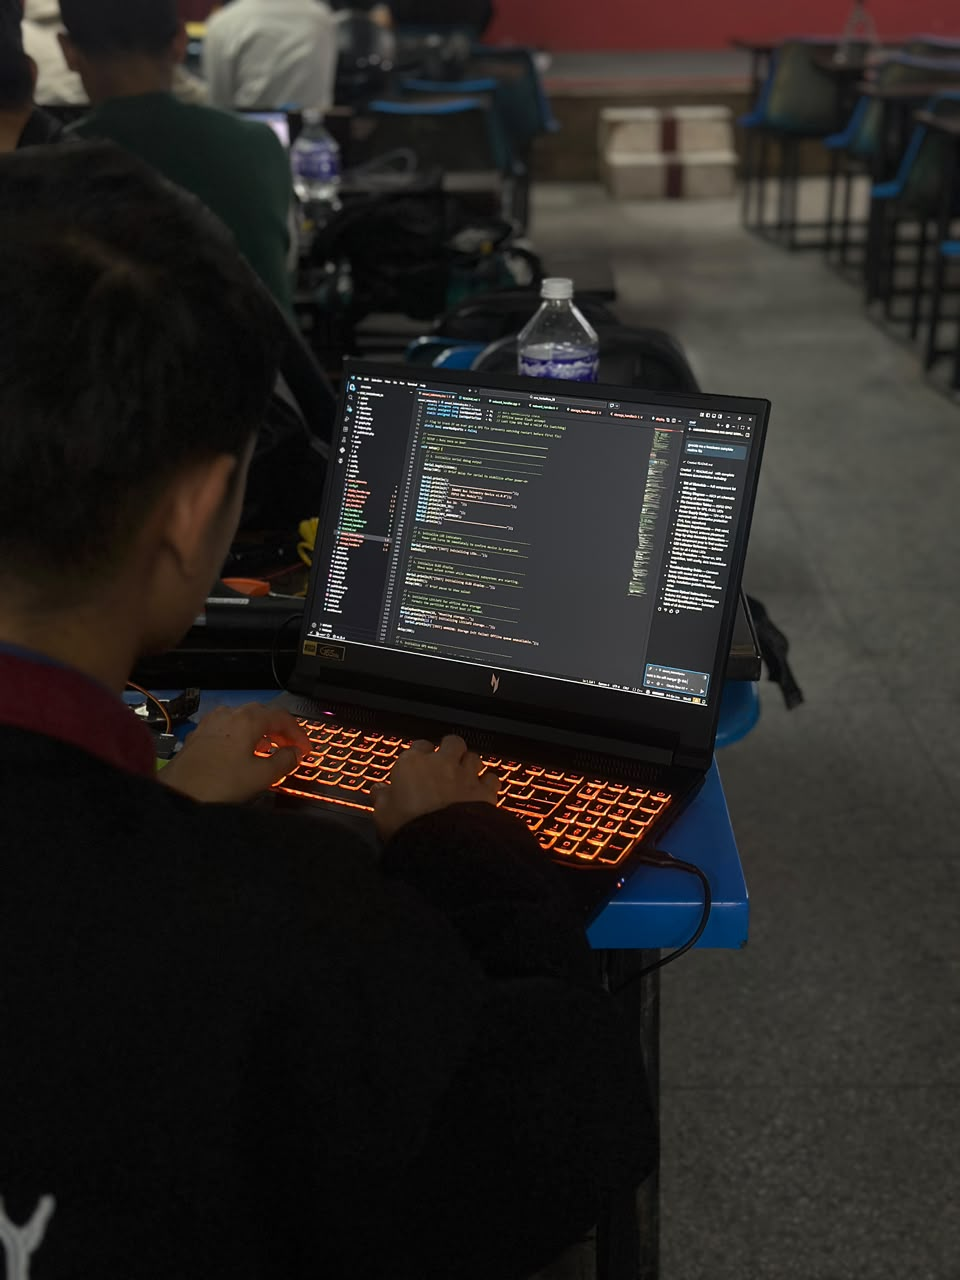
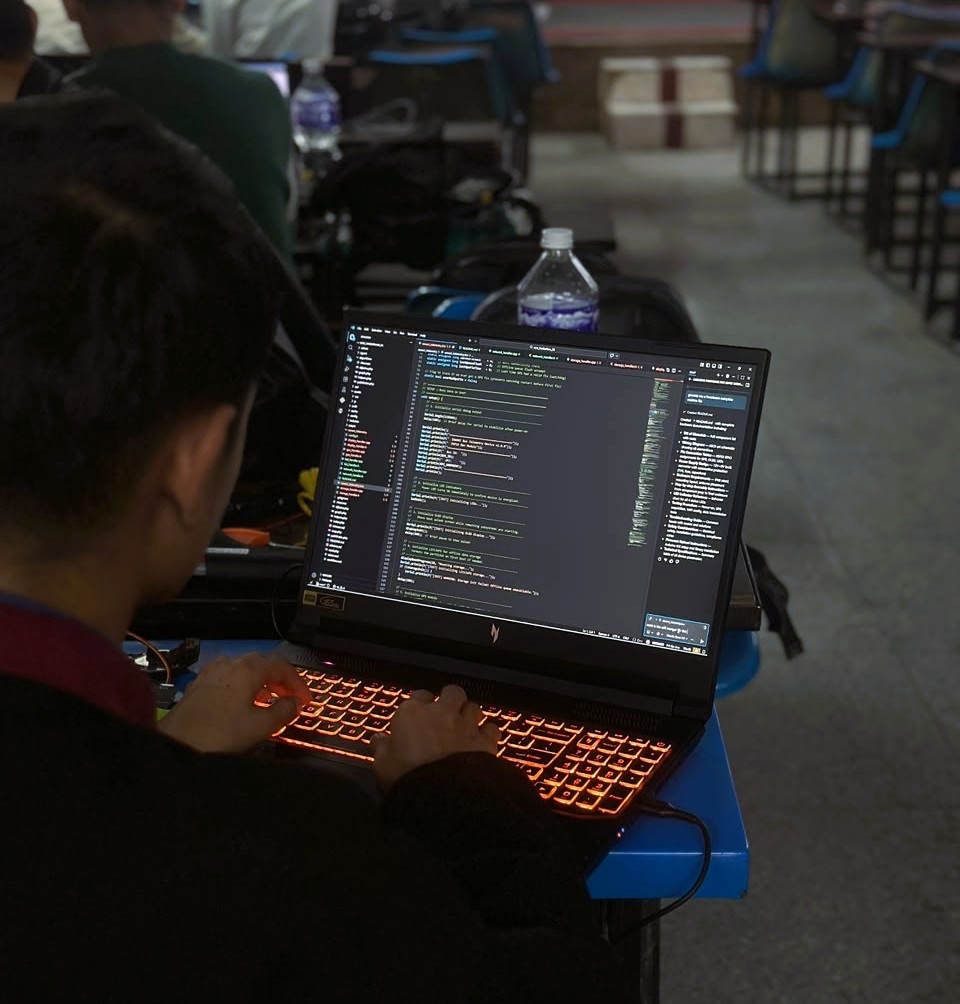
feat: add new hero slider slides for STEM workshops and global competitions

diff --git a/index.html b/index.html
@@ -246,6 +246,68 @@
           </div>
         </div>
 
+        <!-- Slide 4 -->
+        <div class="hero-slide" data-slide="3" data-stat-label="STEM Workshops Conducted" data-stat-val="60+">
+          <div class="hero-bg">
+            <img
+              src="assets/IMG_2016.JPG (1).jpeg"
+              alt="RoboYuwa hands-on robotics workshops and STEM mentorship"
+              loading="lazy"
+              decoding="async"
+            />
+            <div class="overlay"></div>
+          </div>
+          <div class="hero-container">
+            <div class="hero-content">
+              <span class="hero-eyebrow font-serif-italic">Fostering Collaboration</span>
+              <h1 class="hero-title font-serif"><span class="title-line">Hands-On STEM</span><br /><span class="title-line">&amp; Robotics Labs</span></h1>
+              <p class="hero-desc">
+                Cultivating collaborative engineering environments where students design, assemble, and test real robotic mechanisms.
+              </p>
+              <div class="hero-actions">
+                <a href="programs.html" class="btn btn-hero-pill">Join Our Labs</a>
+                <button class="hero-video-btn" aria-label="Watch showcase video">
+                  <span class="play-icon-circle">
+                    <i class="fa-solid fa-play"></i>
+                  </span>
+                  <span class="video-btn-text">Watch The Video</span>
+                </button>
+              </div>
+            </div>
+          </div>
+        </div>
+
+        <!-- Slide 5 -->
+        <div class="hero-slide" data-slide="4" data-stat-label="National Awards &amp; Honors" data-stat-val="12+">
+          <div class="hero-bg">
+            <img
+              src="assets/IMG_2757.JPG.jpeg"
+              alt="RoboYuwa technical competitions and national championship teams"
+              loading="lazy"
+              decoding="async"
+            />
+            <div class="overlay"></div>
+          </div>
+          <div class="hero-container">
+            <div class="hero-content">
+              <span class="hero-eyebrow font-serif-italic">Driving Excellence</span>
+              <h1 class="hero-title font-serif"><span class="title-line">Competing on</span><br /><span class="title-line">Global Stages</span></h1>
+              <p class="hero-desc">
+                Representing Nepal in premier robotics tournaments, showcasing homegrown technical talent, creativity, and leadership.
+              </p>
+              <div class="hero-actions">
+                <a href="about.html" class="btn btn-hero-pill">Meet The Champions</a>
+                <button class="hero-video-btn" aria-label="Watch showcase video">
+                  <span class="play-icon-circle">
+                    <i class="fa-solid fa-play"></i>
+                  </span>
+                  <span class="video-btn-text">Watch The Video</span>
+                </button>
+              </div>
+            </div>
+          </div>
+        </div>
+
       </div>
 
       <!-- Mid-Right Slider Navigation Controls (Reference Circular Outline Arrows) -->
